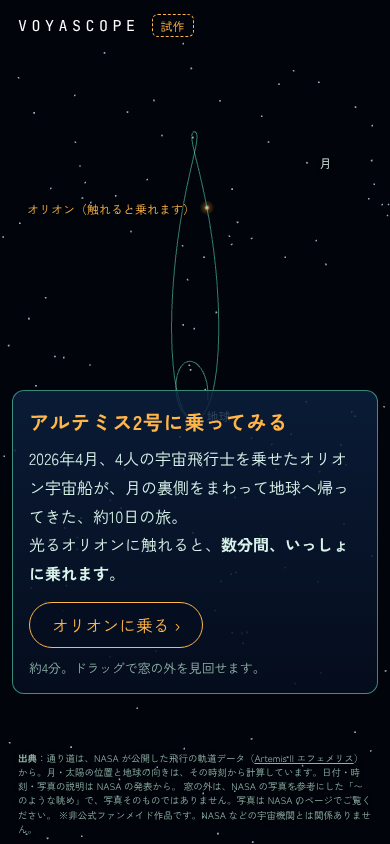
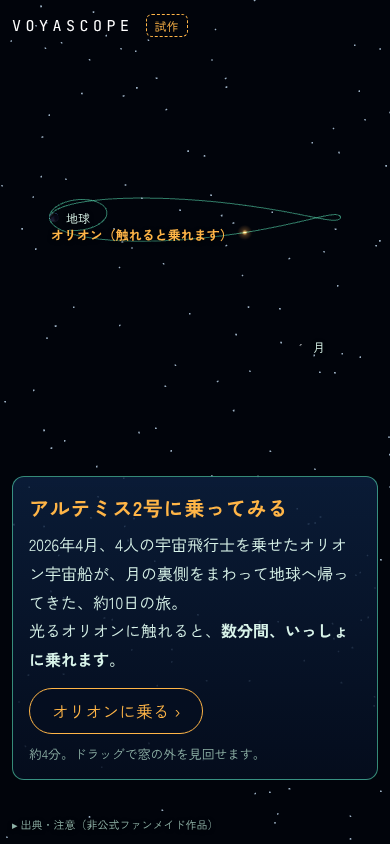
アルテミス2号ツアーと遠くを見る部屋の手直し（オーナーの FB2）
- 遠くを見る部屋のはじめの画面にも「アルテミス2号に乗ってみる ›」
- ツアーの航路：上から見下ろして地球→月を横に、画面いっぱいに（スマホのはじめの画面も同じ向き）
- ツアーの「外から」のボタンをなくした（窓から・地球から・航路＋窓の向き）。乗り込むときの数秒の外からの姿は残した
- 遠くを見る部屋（スマホ）：場所のそばでも、指で縦に大きくはじくと、そばで見るのをやめてそのまま飛ぶ。案内の文も直した
- 下の物差しは、いつも「地球〜いまの場所」を端から端に描く（目盛りが動く）ので、操作はつけない
- docs：タスク019・画面

Claude-Session: https://claude.ai/code/session_01PSGDyXvgTX9QfsVBqZKy2A

diff --git a/web/tour/artemis2/tour.js b/web/tour/artemis2/tour.js
@@ -331,7 +331,7 @@ const wing = (() => {
 
 // ---------- 状態 ----------
 let mode = "intro"; // intro → boarding → ride → ending
-let view = "window"; // 乗っているあいだの見る場所：window（窓から）・outside（外から）・earth（地球から）・route（航路）
+let view = "window"; // 乗っているあいだの見る場所：window（窓から）・earth（地球から）・route（航路）。outside（外から）は乗ってすぐの数秒だけ（ボタンはなし。2026-10-10 オーナー）
 let autoOutside = false; // 乗ってすぐは、外からオリオンの姿を見せる（ボタンを押したらやめる）
 let lookOverride = null; // 「地球向き」「月向き」を押したとき。場面が変わったら台本の向きに戻る
 let lastSeg = null;
@@ -343,22 +343,34 @@ const camFrom = new THREE.Vector3(), lookQ = new THREE.Quaternion(), tmpQ = new 
 let yaw = 0, pitch = 0, dragging = false, lastDrag = 0;
 
 // 外から見る位置：通り道と月の通り道がぜんぶ入るように、斜め上から
-// 縦長の画面（スマホ）では、地球→月を縦に置いて、下の案内の枠より上に収める
+// 縦長の画面（スマホ）と「航路」では、上から見下ろして地球→月を横に置き、画面いっぱいに（2026-10-10 オーナー）
 const INTRO_TARGET = new THREE.Vector3(), INTRO_CAM = new THREE.Vector3(), INTRO_UP = new THREE.Vector3();
 const INTRO_BOX = new THREE.Box3();
 for (const p of P) {
   INTRO_BOX.expandByPoint(v3(p[1], p[2], p[3])); // 宇宙船の通り道だけで決める（月は9日で大きく動くので入れない）
 }
+// 上から見下ろして、地球→月が横に並ぶ向きで、通り道が画面に収まる距離を出す
+// top・bottom：上下に空けておく割合（計器・案内・下の操作の分）
+function fitTopDown(target, cam, up, { top = 0.1, bottom = 0.1 } = {}) {
+  const sz = INTRO_BOX.getSize(new THREE.Vector3());
+  INTRO_BOX.getCenter(target);
+  const vf = (camera.fov * Math.PI) / 180, hf = 2 * Math.atan(Math.tan(vf / 2) * camera.aspect);
+  const avail = 1 - top - bottom; // 縦に使える割合
+  const dW = (sz.x / 2) * 1.35 / Math.tan(hf / 2); // 左右に余白（名前の文字の分も）
+  const dH = (sz.z / 2) * 1.2 / (Math.tan(vf / 2) * avail);
+  const dist = Math.max(dW, dH);
+  // 使える範囲のまんなかに通り道が来るように、見る点をずらす（画面の下＝ +z）
+  target.z += dist * Math.tan(vf / 2) * (bottom - top);
+  cam.copy(target).add(new THREE.Vector3(0, dist, 0));
+  up.set(0, 0, -1);
+}
 function setIntroView() {
   const size = INTRO_BOX.getSize(new THREE.Vector3()).length();
   INTRO_BOX.getCenter(INTRO_TARGET);
-  if (innerWidth < innerHeight) {
-    // 月の側（月がいちばん近いときの位置）を上に。真上から見下ろす
-    const far = P.reduce((b, p) => (Math.hypot(p[1], p[2], p[3]) > Math.hypot(b[1], b[2], b[3]) ? p : b));
-    const toMoon = v3(far[1], far[2], far[3]).setY(0).normalize(); // 地球から、いちばん遠いところへの向き
-    INTRO_UP.copy(toMoon);
-    INTRO_TARGET.addScaledVector(toMoon, -size * 0.5); // 絵を画面の上のほうへ
-    INTRO_CAM.copy(INTRO_TARGET).add(new THREE.Vector3(0, size * 2.0, 0)).addScaledVector(toMoon, -size * 0.14);
+  if (mode === "ride" && view === "route") {
+    fitTopDown(INTRO_TARGET, INTRO_CAM, INTRO_UP, innerWidth < innerHeight ? { top: 0.3, bottom: 0.38 } : { top: 0.26, bottom: 0.24 });
+  } else if (innerWidth < innerHeight) {
+    fitTopDown(INTRO_TARGET, INTRO_CAM, INTRO_UP, { top: 0.08, bottom: 0.56 }); // 下の案内の枠より上に
   } else {
     INTRO_UP.set(0, 1, 0);
     // 月の側を左・地球を右に見る向き（左下の案内の枠に地球が隠れないように）。絵を少し右へ
@@ -561,7 +573,7 @@ function setView(v, { auto = false } = {}) {
   pathLine.visible = v === "route" || v === "earth";
   orionMark.visible = v === "route" || v === "earth";
   setNear(v === "outside" ? 0.0008 : 0.05);
-  if (v === "route") introCamera();
+  if (v === "route") setIntroView(), introCamera();
   if (v === "window") lookQ.copy(camera.quaternion);
 }
 function setLook(l) {
@@ -586,6 +598,7 @@ function startRide(at = 0) {
 function leaveRide() {
   mode = "intro";
   setView("route", { auto: true });
+  setIntroView();
   setNear(0.05);
   wing.visible = false;
   $("#window-frame").classList.remove("on");
@@ -740,6 +753,8 @@ function frame(now) {
         camera.quaternion.setFromRotationMatrix(mtx);
         orionMark.scale.setScalar(camera.position.distanceTo(s.craft) * 0.035);
       } else {
+        setIntroView(); // 「航路」：画角が変わっている途中でも、通り道が収まるように毎回合わせる
+        introCamera();
         orionMark.scale.setScalar(22);
       }
       stars.position.copy(camera.position);

diff --git a/web/js/far/journey.js b/web/js/far/journey.js
@@ -246,7 +246,7 @@ export function journeyHtml({ coarse = false } = {}) {
       <div class="footline"><p id="far-warp-note">光より速く進むのはワープ（作り話）です</p><button type="button" data-j="home">地表へ戻る ↶</button></div>
     </div>
     <p class="model-note">公式を参考にしたイメージ</p>
-    <p class="look-hint" aria-hidden="true"><svg class="i" viewBox="0 0 24 24"><path d="M4 12a8 8 0 0 1 14-5.3M20 12a8 8 0 0 1-14 5.3M18 3v4h-4M6 21v-4h4"/></svg><span>${coarse ? "指でなぞって、まわりから眺める" : "ドラッグか ← → キーで、まわりから眺める"}</span></p>`;
+    <p class="look-hint" aria-hidden="true"><svg class="i" viewBox="0 0 24 24"><path d="M4 12a8 8 0 0 1 14-5.3M20 12a8 8 0 0 1-14 5.3M18 3v4h-4M6 21v-4h4"/></svg><span>${coarse ? "横になぞって眺める。縦に大きくはじくと、そのまま飛ぶ" : "ドラッグか ← → キーで、まわりから眺める"}</span></p>`;
 }
 
 // ---------- 3D の旅 ----------
@@ -1194,7 +1194,7 @@ float fbm(vec3 p){ float a = 0.5, s = 0.0; for (int i = 0; i < 4; i++) { s += a 
     const m = modeNow();
     if (m.mode === "encounter") {
       // そばで観測中：なぞると、見せたもののまわりを回りこんで見る（ここでは飛ばない。先へは「その先へ」のボタンで）
-      pointer = { id: e.pointerId, x: e.clientX, y: e.clientY, look: true };
+      pointer = { id: e.pointerId, x: e.clientX, y: e.clientY, x0: e.clientX, y0: e.clientY, look: true, touch: e.pointerType !== "mouse" };
       look.st = m.st;
       root.classList.add("looked");
     } else {
@@ -1208,6 +1208,16 @@ float fbm(vec3 p){ float a = 0.5, s = 0.0; for (int i = 0; i < 4; i++) { s += a 
   viewport.addEventListener("pointermove", (e) => {
     if (!pointer || pointer.id !== e.pointerId) return;
     if (pointer.look) {
+      // 指で縦に大きくなぞったら（横より縦が2倍以上・80px 以上）、そばで見るのをやめて、そのまま飛ぶ（2026-10-10 オーナー）
+      const ty = e.clientY - pointer.y0, tx = e.clientX - pointer.x0;
+      if (pointer.touch && Math.abs(ty) > 80 && Math.abs(ty) > 2 * Math.abs(tx)) {
+        cancelTrip();
+        snap = null;
+        pointer = { id: pointer.id, y: e.clientY };
+        push(ty * TUNE.SWIPE_GAIN);
+        wake();
+        return;
+      }
       const dx = e.clientX - pointer.x, dy = e.clientY - pointer.y;
       pointer.x = e.clientX;
       pointer.y = e.clientY;
@@ -1596,6 +1606,7 @@ float fbm(vec3 p){ float a = 0.5, s = 0.0; for (int i = 0; i < 4; i++) { s += a 
       $("text").innerHTML = "光になって、地球の輪の外へ。<br>遠くで旅をつづける探査機に、会いにいこう。";
       $("scene-name").textContent = "EARTH";
       $("scene-caption").textContent = "高さ 100 km から、出発";
+      tour.hidden = false; // はじめの画面にも、アルテミス2号に乗る入口（2026-10-10 オーナー）
     } else if (mode === "end") {
       $("eyebrow").textContent = "BEYOND THE ORBIT";
       title.innerHTML = "地球の輪の外は、<br>桁が違う。";

diff --git a/web/tour/artemis2/index.html b/web/tour/artemis2/index.html
@@ -63,7 +63,6 @@
       <div class="ctl-row">
         <div class="seg" role="group" aria-label="見る場所">
           <button type="button" class="chip" data-view="window" aria-pressed="true">窓から</button>
-          <button type="button" class="chip" data-view="outside" aria-pressed="false">外から</button>
           <button type="button" class="chip" data-view="earth" aria-pressed="false">地球から</button>
           <button type="button" class="chip" data-view="route" aria-pressed="false">航路</button>
         </div>
